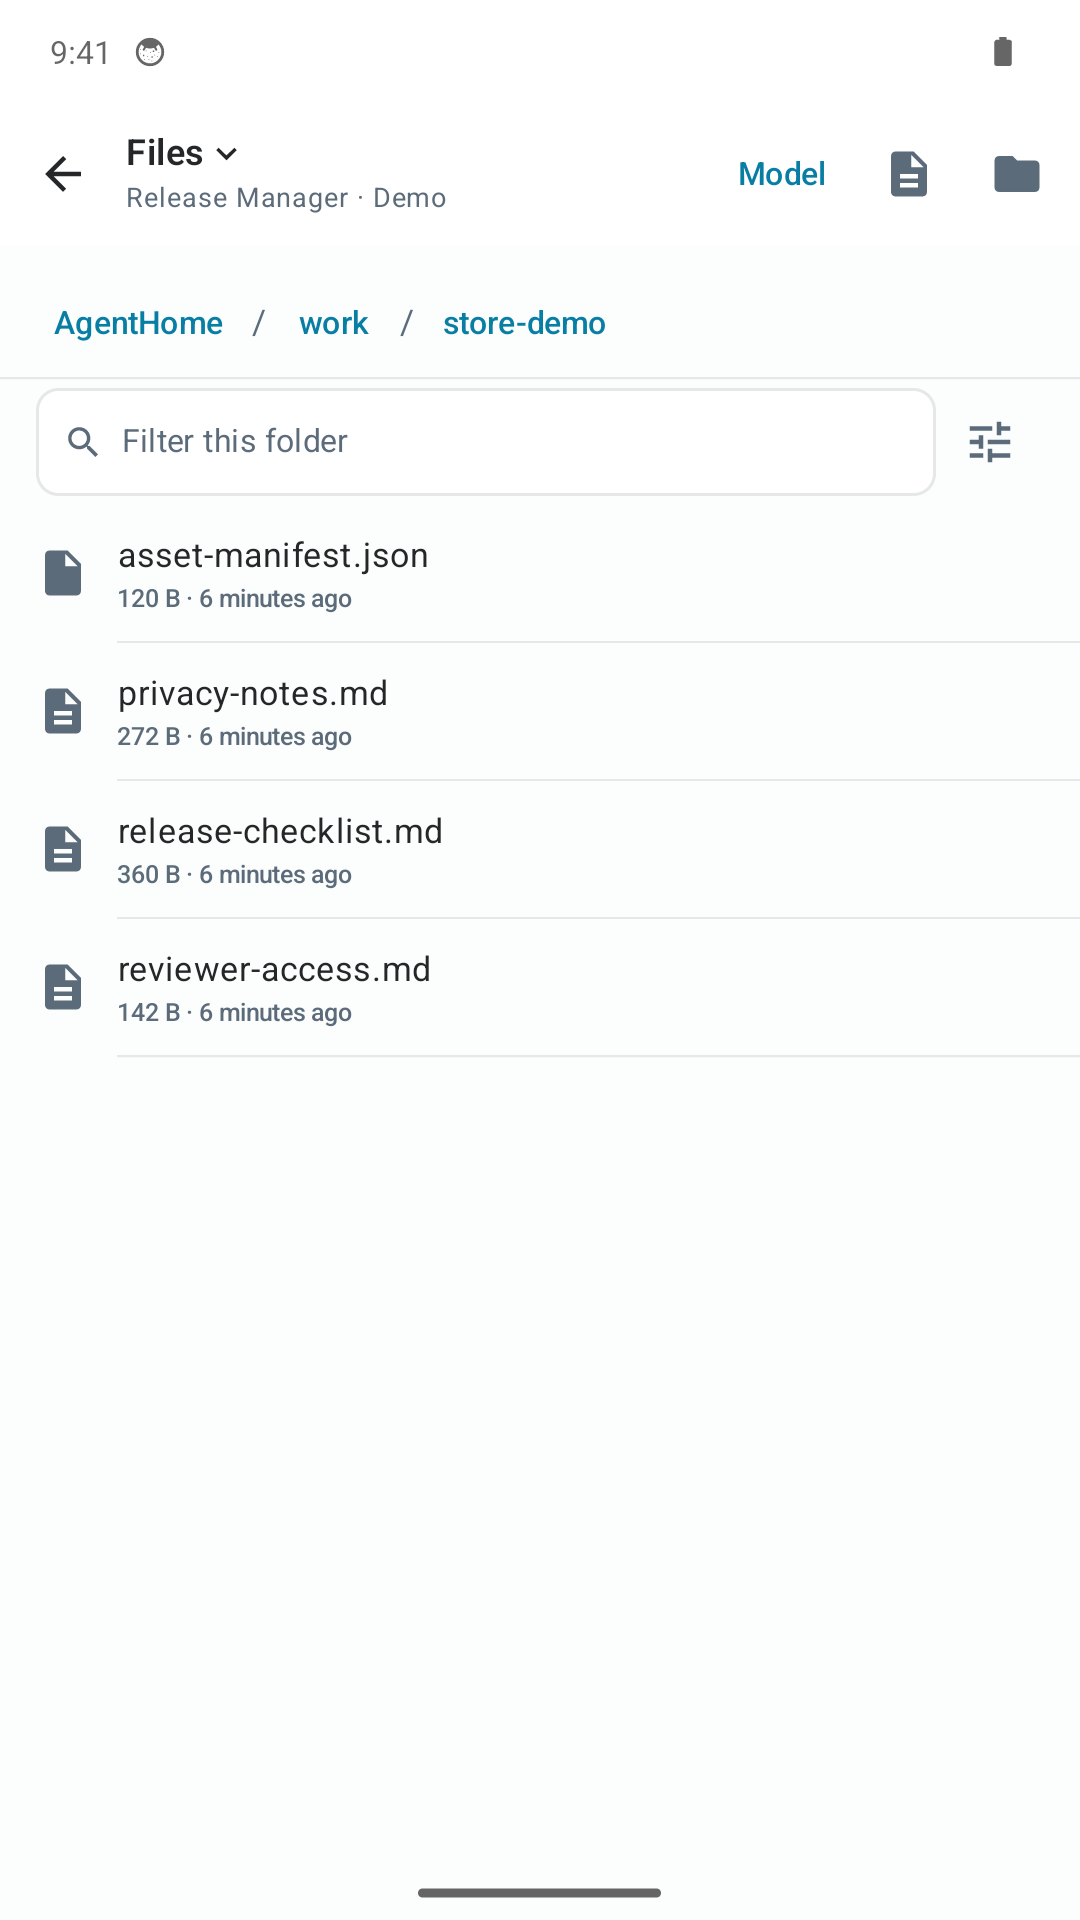
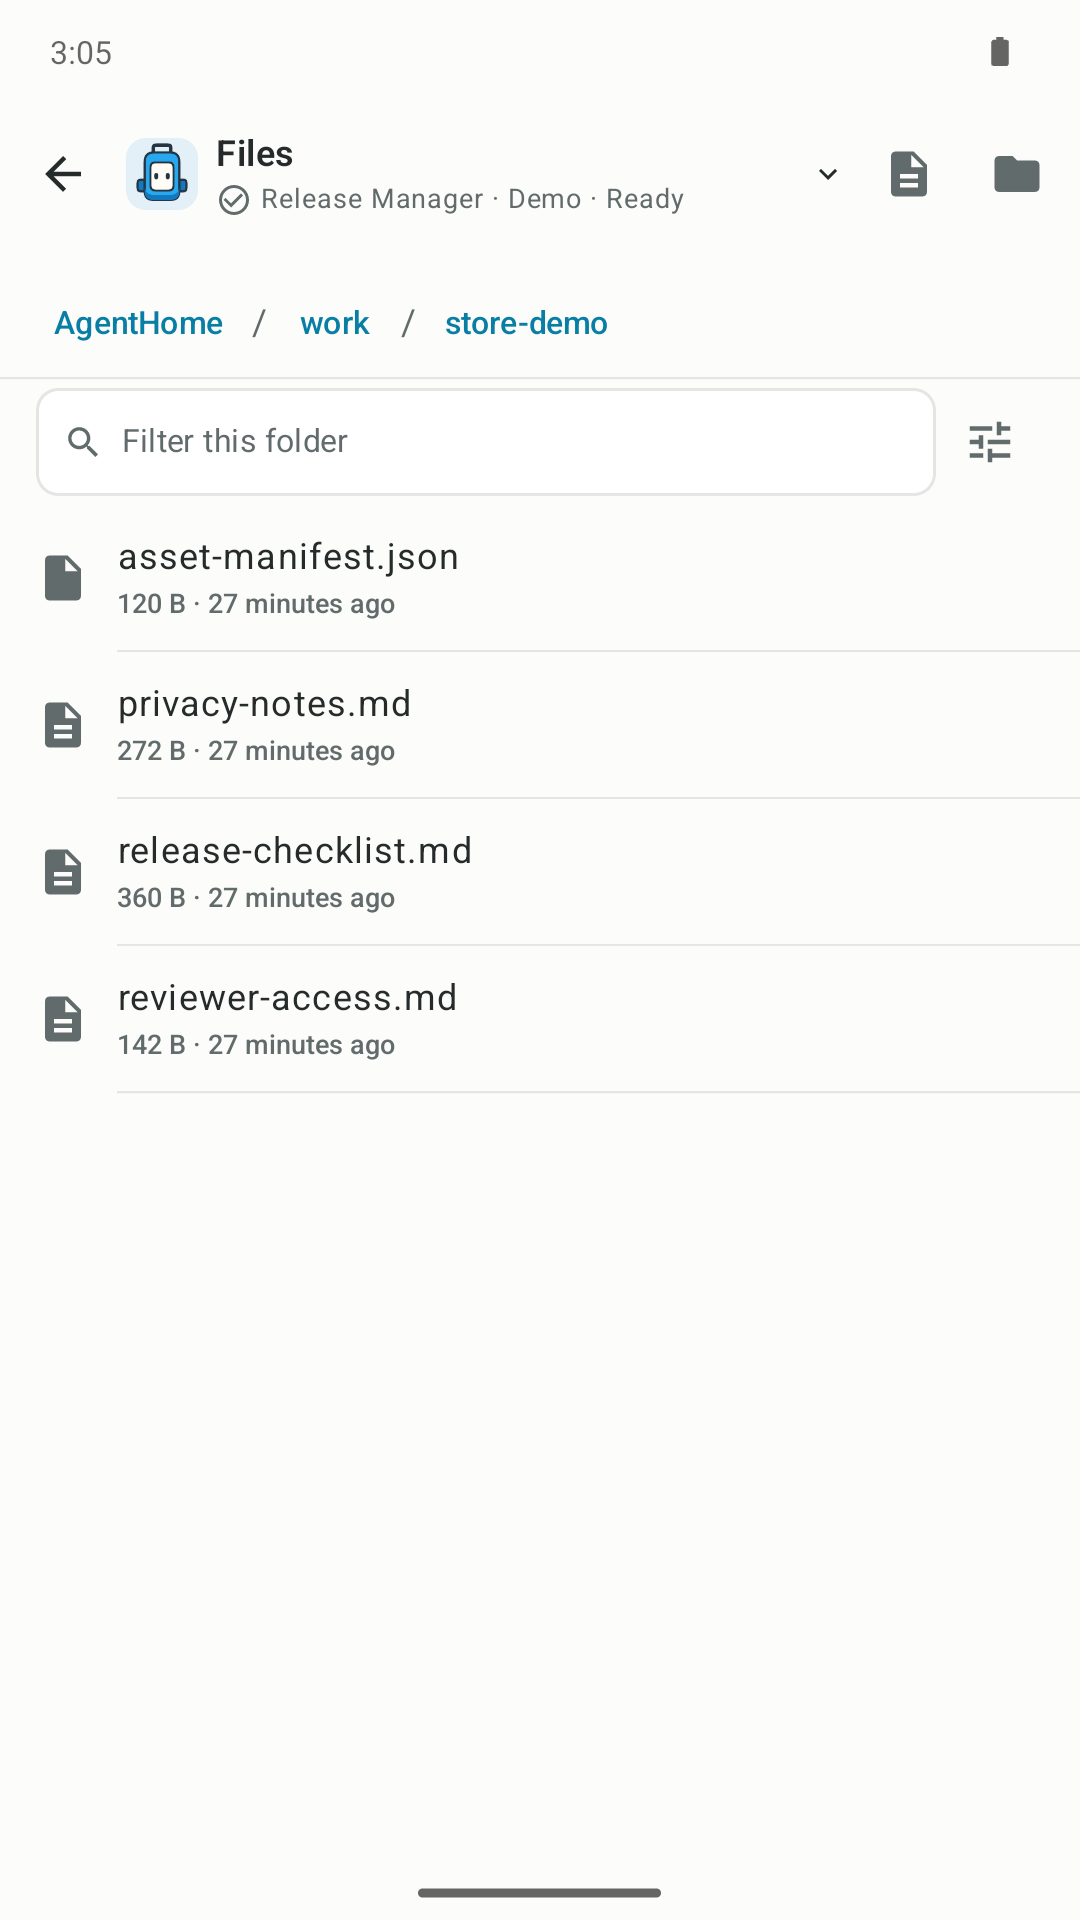
docs(android): refresh en-US store screenshots for the 0.60 UI

diff --git a/apps/android/play/README.md b/apps/android/play/README.md
@@ -7,7 +7,7 @@ UI matches these captures before submitting them.
 ## Files and provenance
 
 - `en-US/screenshots/`: eight original, unretouched `adb exec-out screencap -p`
-  captures, 1080 × 1920 PNG, taken on October 7, 2026.
+  captures, 1080 × 1920 PNG, taken on November 21, 2026.
 - `en-US/graphics/icon.png`: 512 × 512 PNG, derived from the Android adaptive
   launcher paths and colors. Editable source: `icon.svg` in the same directory.
 - `en-US/graphics/feature-graphic.png`: 1024 × 500 PNG. Editable source:
@@ -17,20 +17,20 @@ UI matches these captures before submitting them.
 
 The capture device is a dedicated Android 14 (API 34) Google APIs arm64
 emulator, with a 1080 × 1920 display and density 360. The client is a debug
-development build of version 0.48.0, including the privacy entry in this change.
-It is **not** a capture of the already-published Play build. UI, agent names and
-messages are English. Light/dark themes are Android's actual system themes.
+development build of version 0.60.0, including the agent avatars and the
+required per-agent status icons. It is **not** a capture of the
+already-published Play build. UI, agent names and messages are English.
+Light/dark themes are Android's actual system themes.
 
-The backend is a real Holon 0.48.0 daemon in an independent home, bound only to
+The backend is a real Holon 0.59.0 daemon in an independent home, bound only to
 loopback. Four named demo agents and their operator messages/result briefs are
 persisted through the normal runtime APIs. A local, scripted Responses provider
 supplies disclosed demonstration drafts: **no real model inference, production
 work, cloud uploads or personal conversations are represented.** Each agent
-name/content identifies the demonstration. A fifth default `demo-studio` agent
-welcomes users to the capture environment.
+name/content identifies the demonstration.
 
-The WorkItem and file-browser captures were added in a second isolated run.
-The scripted provider calls the real `CreateWorkItem` tool to persist the
+The WorkItem and file-browser captures come from the same capture run. The
+scripted provider calls the real `CreateWorkItem` tool to persist the
 sample objective, checklist and plan; `needs_input` prevents an actual release
 from running. The four sample files in `AgentHome / work / store-demo` are
 written by the capture script and read through the normal authorized file API.
@@ -43,7 +43,7 @@ was used for presentation; in-app times remain the actual capture times.
 ## Gallery
 
 ### Agent roster — light
-![Five demo agents with real persisted result previews](en-US/screenshots/01-agents.png)
+![Four demo agents with avatars, status icons and real persisted result previews](en-US/screenshots/01-agents.png)
 
 ### Internal-test checklist
 ![Release Manager demonstration conversation](en-US/screenshots/02-release-conversation.png)
